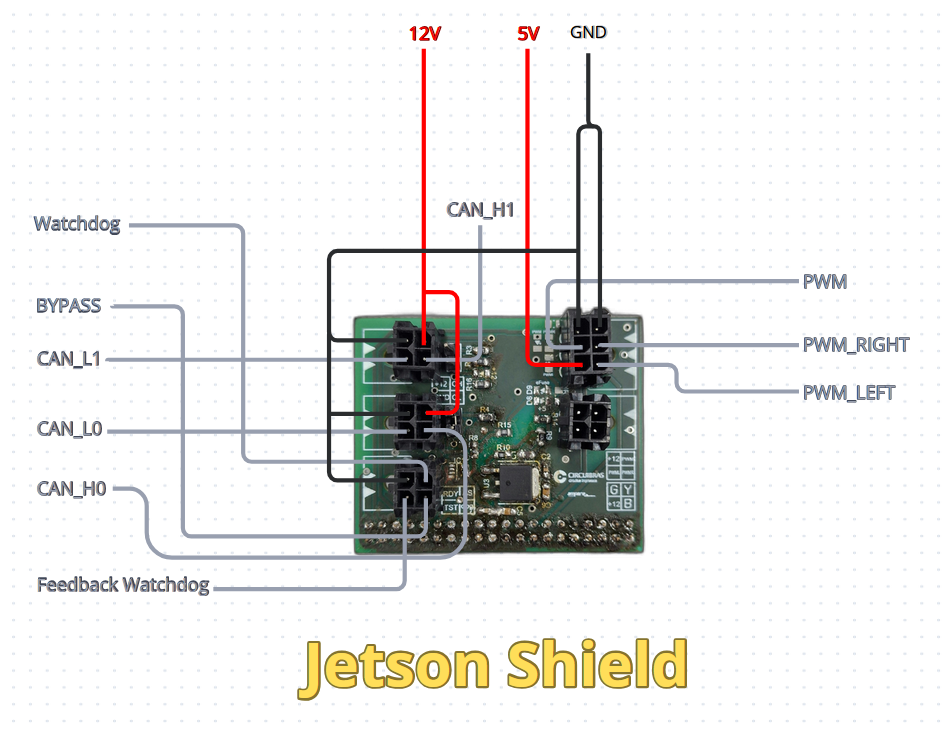
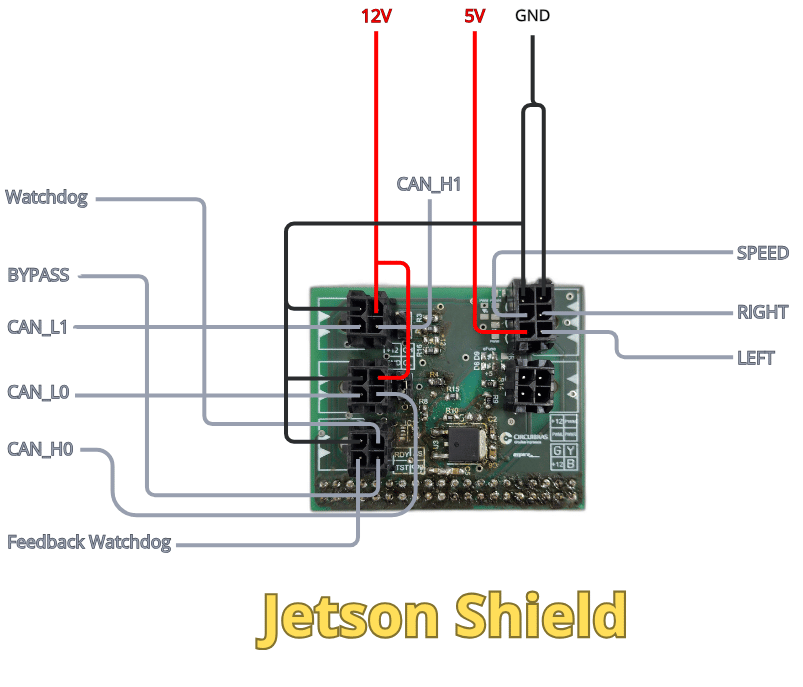
fix: left and right output names

Changed region(s): [[0.0, 0.0, 0.9963, 0.8253], [0.3113, 0.8559, 0.7783, 0.9782]]

diff --git a/docs/hardware/integration.md b/docs/hardware/integration.md
@@ -1,13 +1,13 @@
 # Hardware integration
 
 ## Jetson Shield
-The “Jetson shield” is designed to serve as an interface between our computing unit and the vehicle’s CAN bus. The CAN signals are received by a CAN transceiver on the board, which converts the electrical signals between the CAN bus and the computing unit’s interface, enabling communication with the vehicle’s systems.
+The Jetson shield is designed to serve as an interface between our computing unit and the vehicle’s CAN bus. The CAN signals are received by a CAN transceiver on the board, which converts the electrical signals between the CAN bus and the computing unit’s interface, enabling communication with the vehicle’s systems.
 
 ![](integration/jetson-shield.png)
 
 ### Inputs
 
-The communication architecture of the “AMP” utilizes two CAN buses (CAN_0 and CAN_1), each assigned to specific functions:
+The communication architecture of the AMP prototype utilizes two CAN buses (CAN\_0 and CAN\_1), each assigned to specific functions:
 
 **CAN_0:** This bus is used to transmit various data acquired from the vehicle’s sensors, such as IMU and steering measurements. All sensor-acquired data is transmitted via the CAN bus.
 
@@ -17,7 +17,7 @@ The communication architecture of the “AMP” utilizes two CAN buses (CAN_0 an
 
 ### Outputs
 
-The **PWM Left** and **PWM Right** signals control the direction of motor rotation. These are binary control signals, with each signal indicating the direction in which the motor is commanded to rotate.
+The **Left** and **Right** signals control the direction of motor rotation. These are binary control signals, with each signal indicating the direction in which the motor is commanded to rotate.
 
 The **BYPASS** signal is an auxiliary signal used during the system’s initial check. It allows the initial verification procedure to be performed while the watchdog signal is inactive and reserved for its regular monitoring routine.
 
